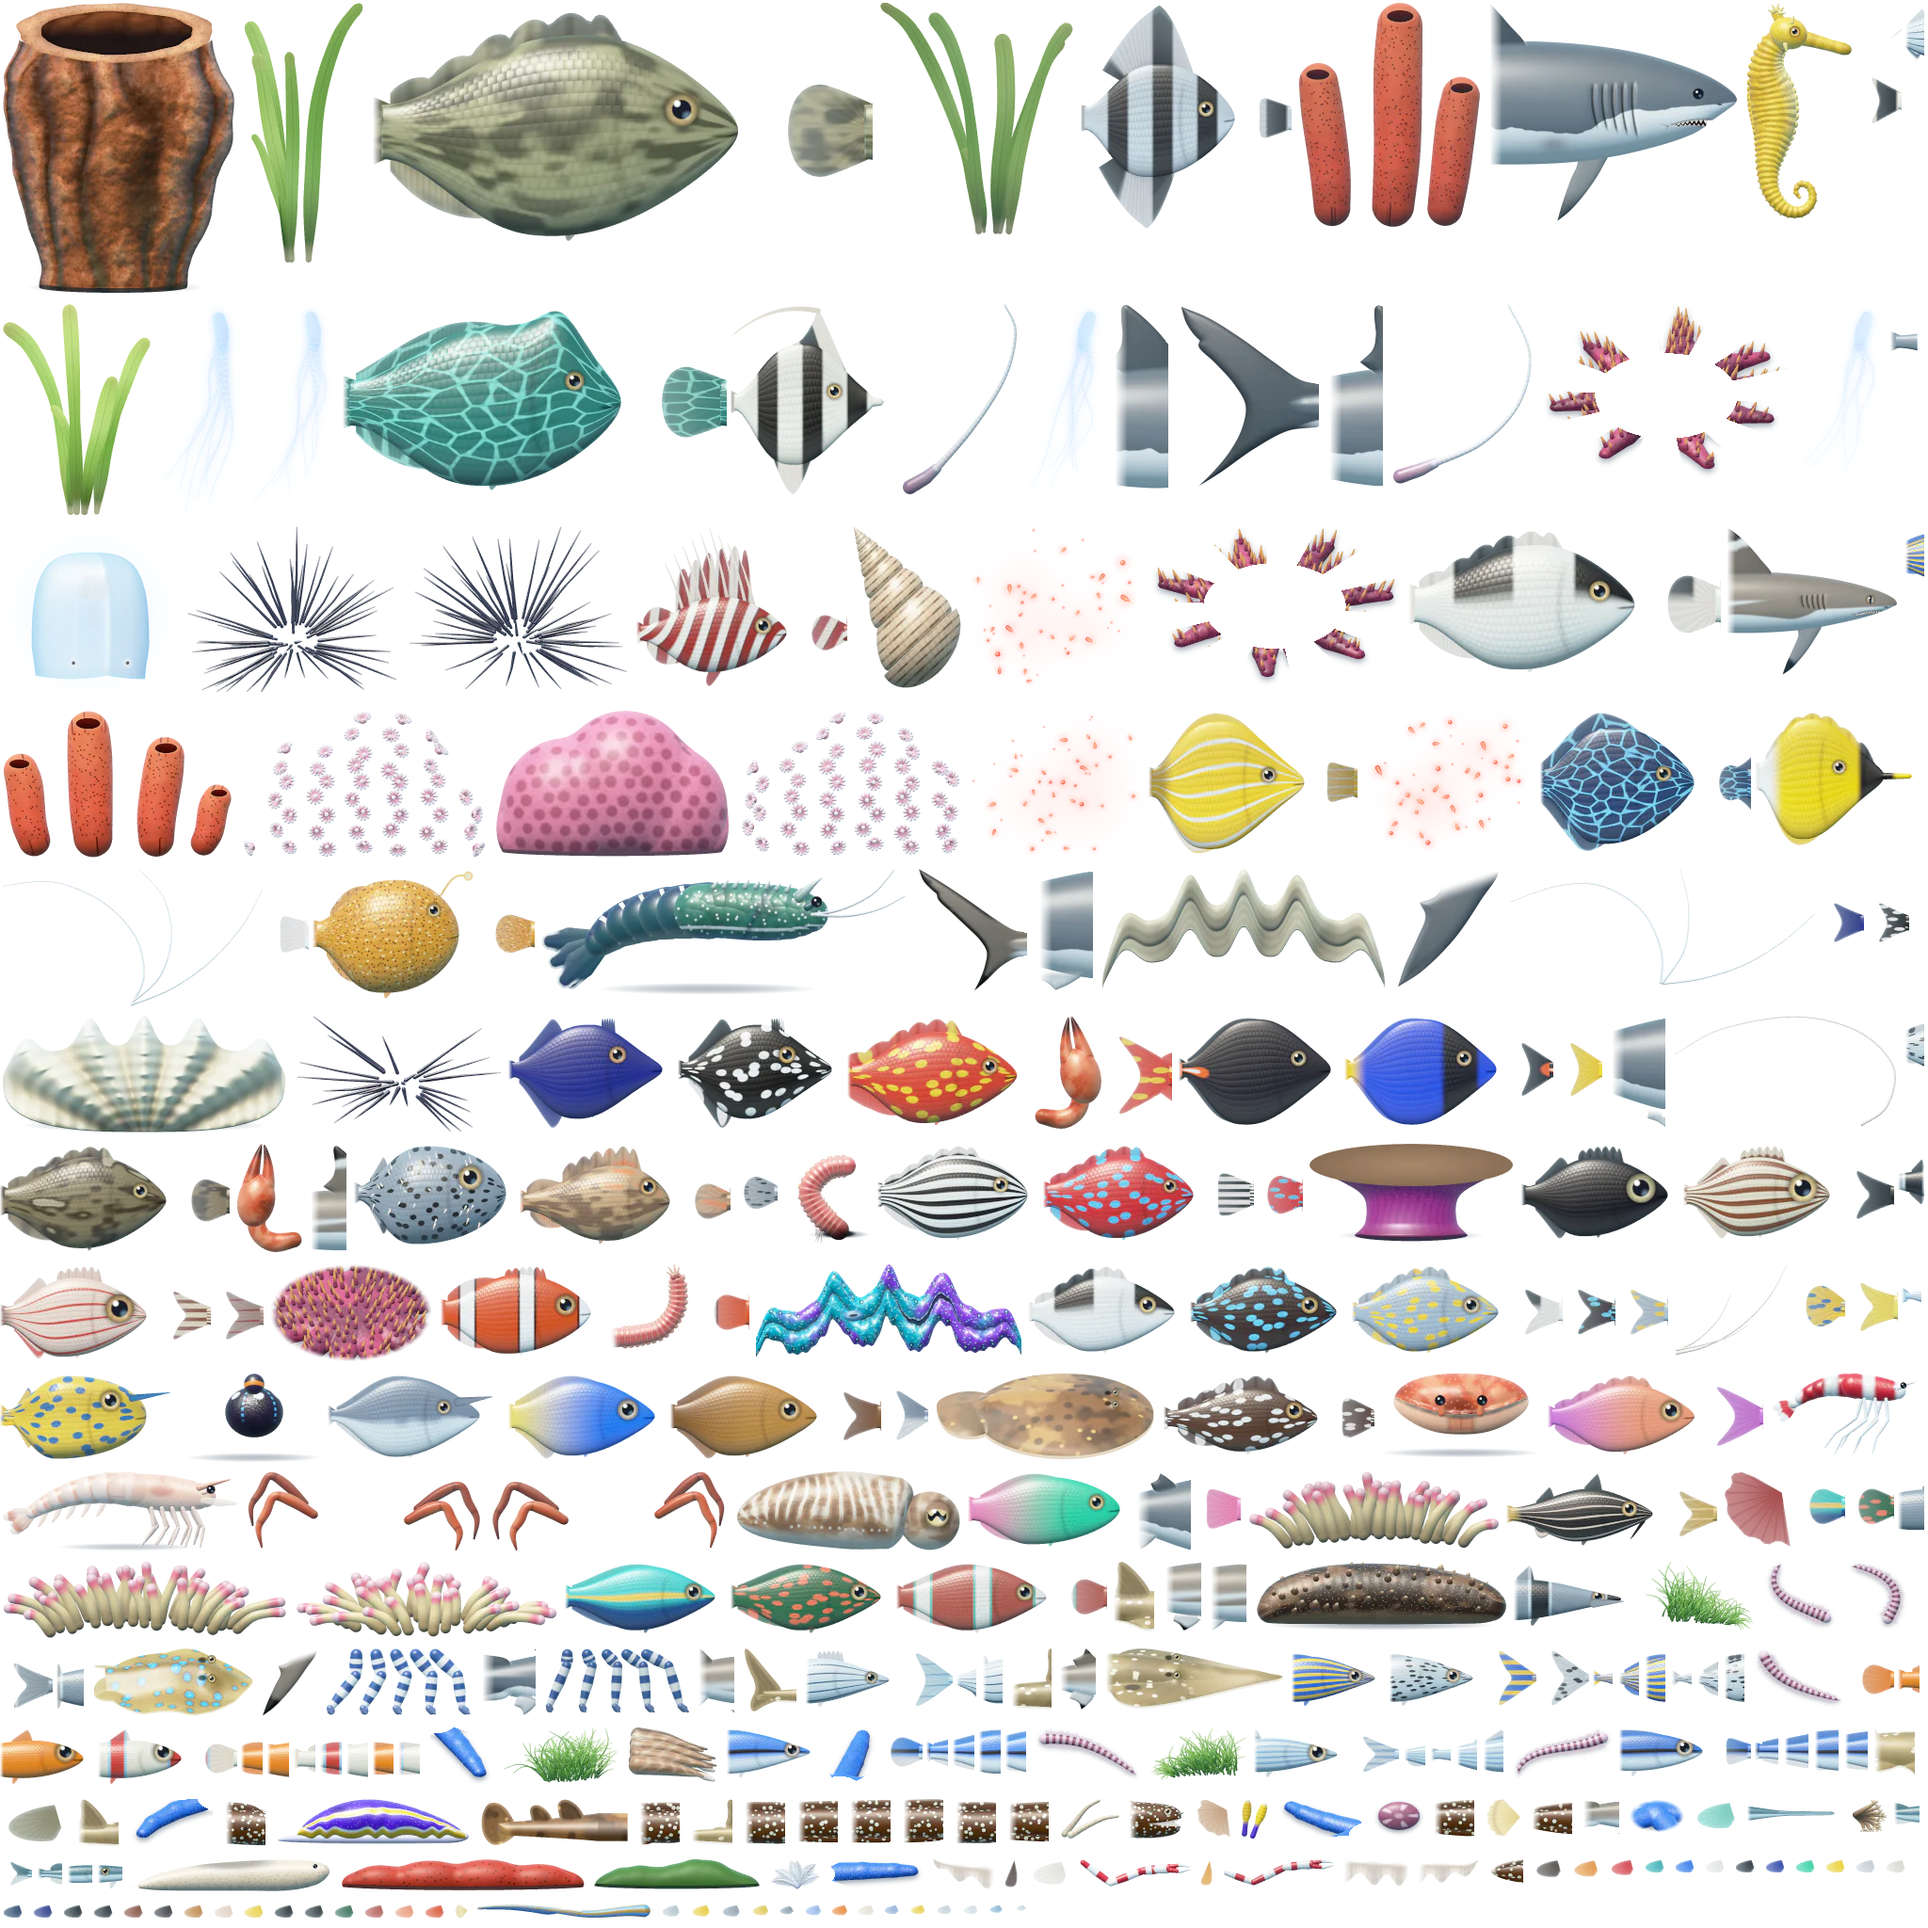
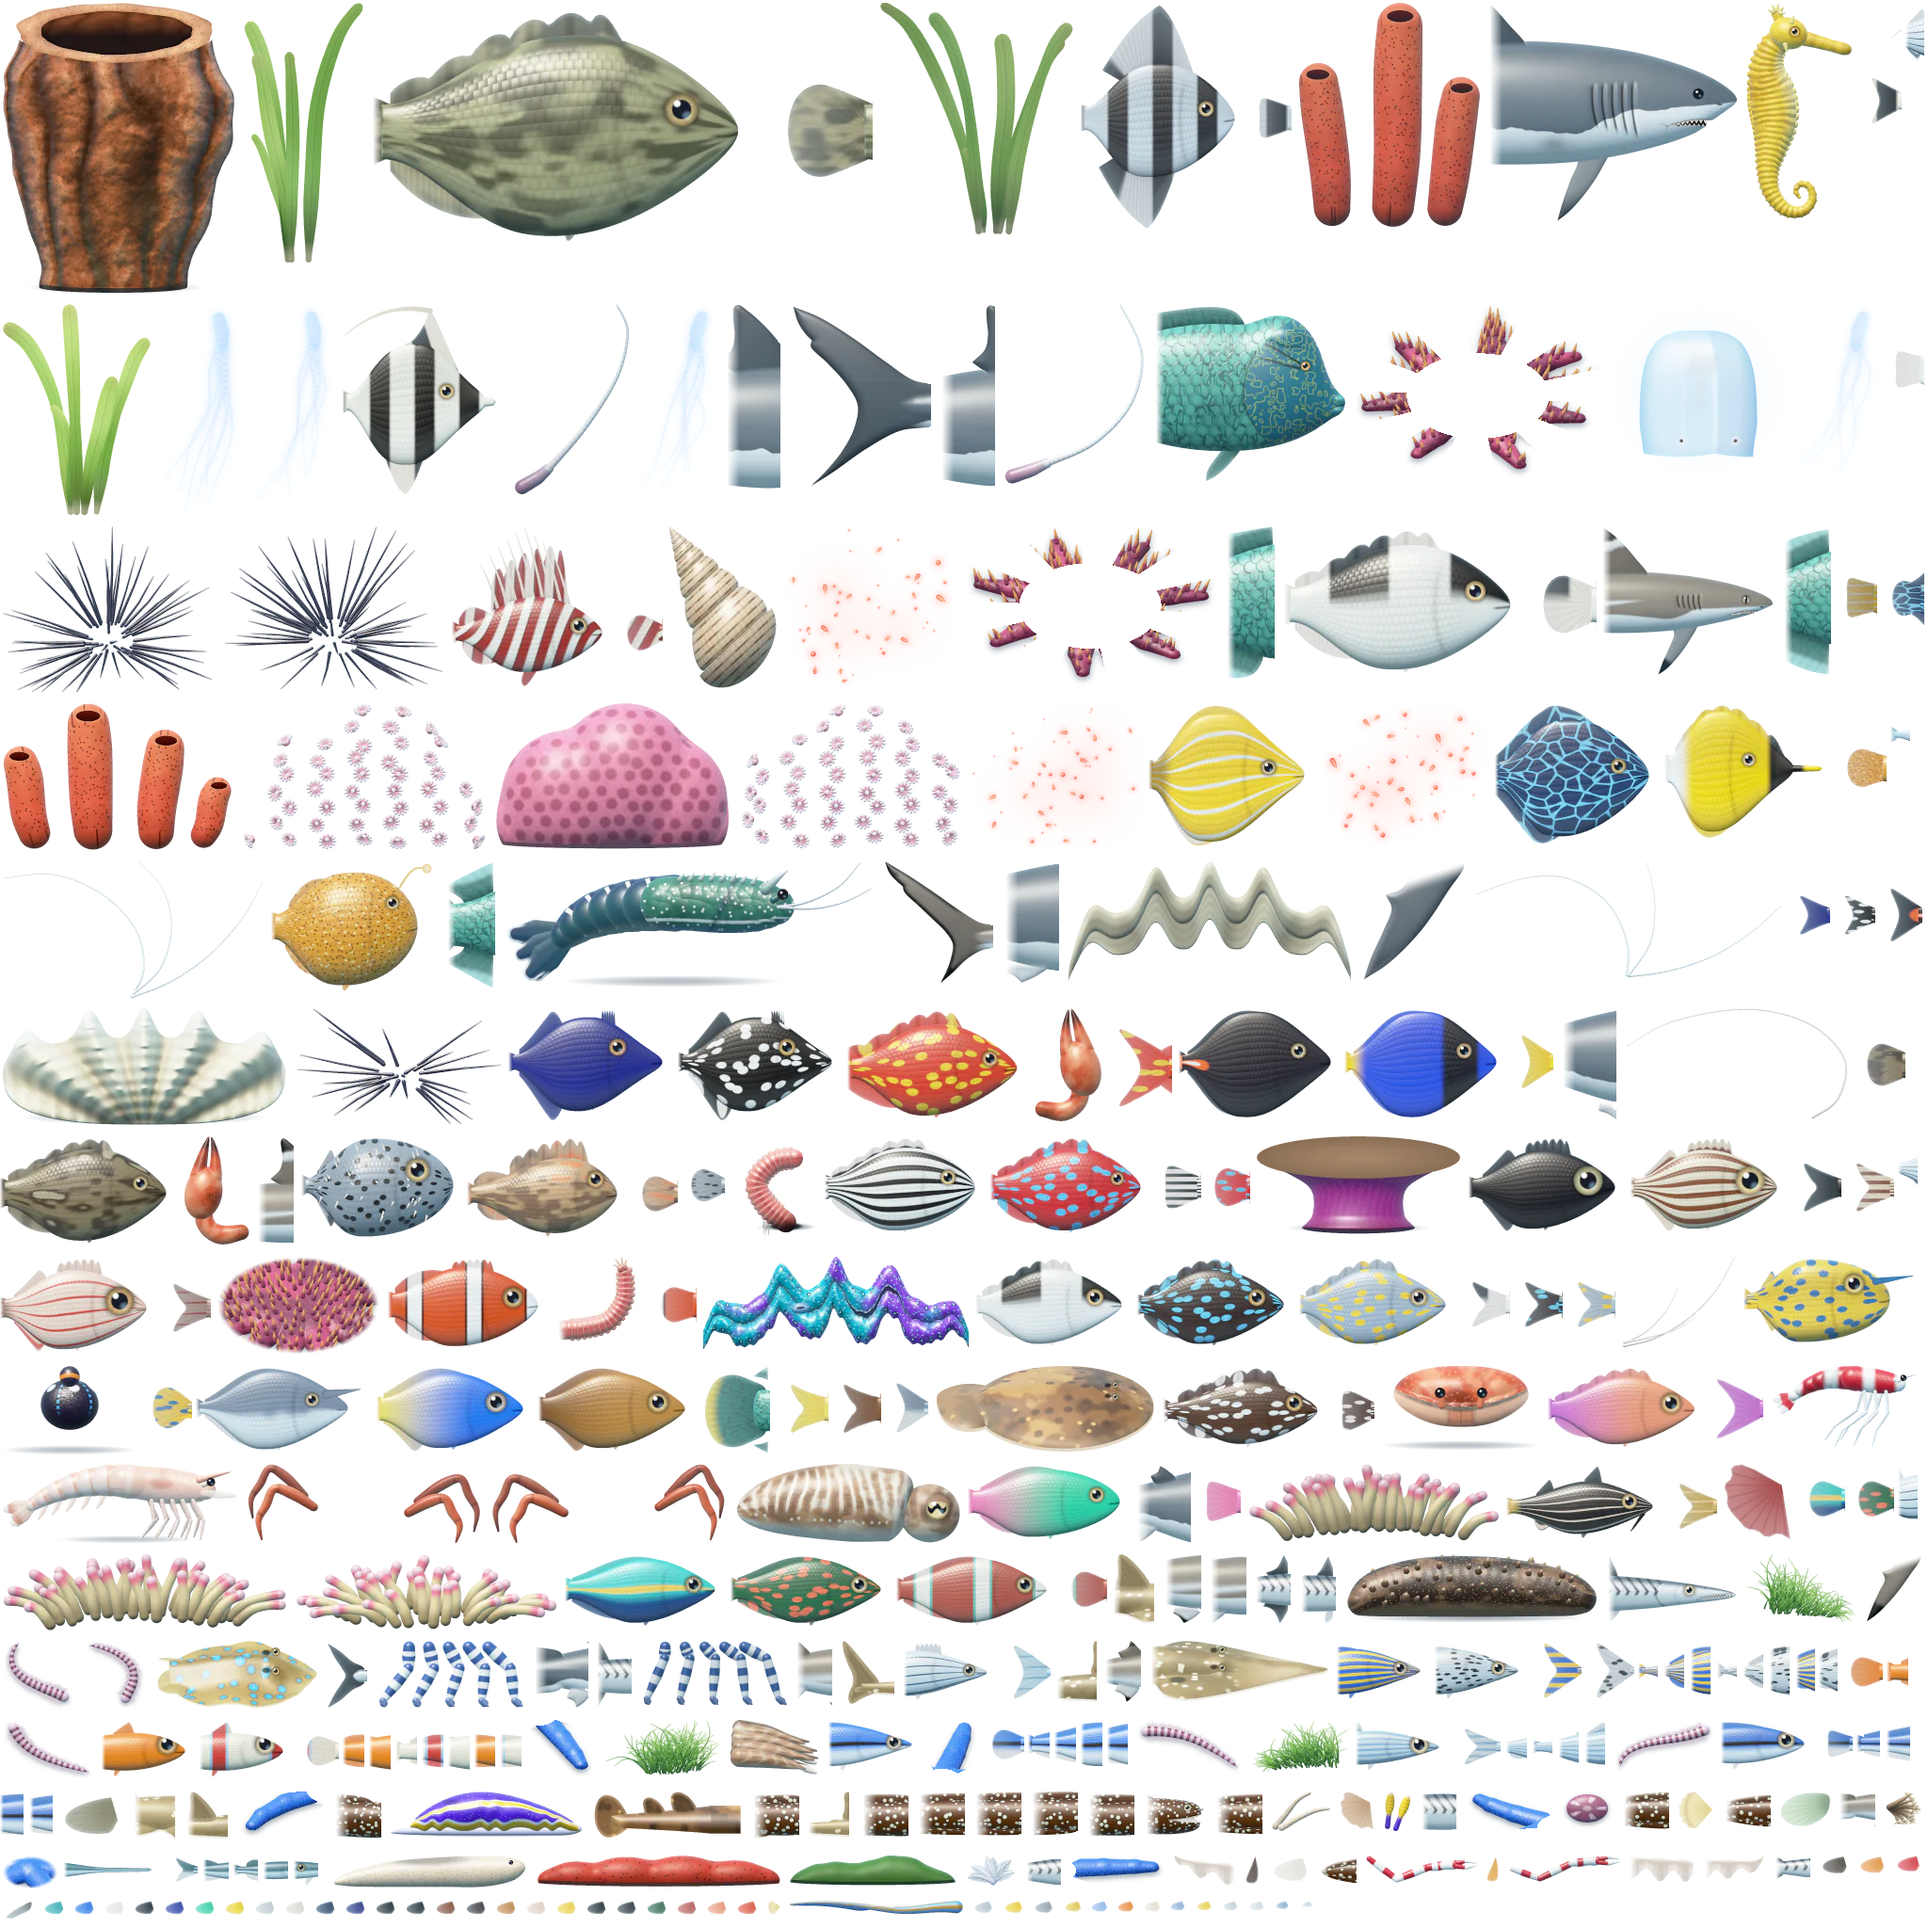
Hand-rendered barracuda and humphead wrasse; puffers swell into a ball; softer ink
Claude-Session: https://claude.ai/code/session_01VVY67R5iH75EttQJwB75uM

diff --git a/README.md b/README.md
@@ -38,7 +38,7 @@ npm install
 npm run package
 ```
 
-That writes `dist/reefbound.zip` (about 2.8 MB; the Roku store limit for a channel is 4 MB and
+That writes `dist/reefbound.zip` (about 2.9 MB; the Roku store limit for a channel is 4 MB and
 the build fails if it is exceeded). To put it on a Roku:
 
 1. Enable developer mode on the Roku: press Home three times, Up twice, then Right, Left, Right,
@@ -129,7 +129,7 @@ cannot do real-time lighting, so the lighting is done ahead of time:
   of day, which gives day, dusk, night and three depths from the same sprites. On top: a parallax
   backdrop, light shafts, the waterline and sky, drifting particles, a soft vignette.
 
-Budget: four WebP atlases, 1.5 MB on disk, about 41 MB as textures, plus half and quarter size
+Budget: three WebP atlases, 1.6 MB on disk, about 40 MB as textures, plus half and quarter size
 copies the channel makes at load time so that small sprites are drawn from a copy near their
 on-screen size. **Low detail** keeps the creature and scenery sheets at half resolution — a
 quarter of the memory — and trims decoration. *Auto* picks it on devices that report little
@@ -207,7 +207,9 @@ Things that can only be settled on hardware:
 - **Frame rate** on a low-end player (Roku Express class). The design target is 30 fps there and
   60 on faster players. The simulation is budgeted for it (see the architecture notes); drawing
   cost on a real GPU is unmeasured.
-- **Texture memory** at High detail (about 54 MB with the reduced copies). Low detail exists for
+- **Start-up time.** Loading decodes three 2048-pixel atlases, makes their reduced copies and
+  populates the first region; this was not timed on a device.
+- **Texture memory** at High detail (about 53 MB with the reduced copies). Low detail exists for
   this; confirm which devices Auto should put in it.
 - **Mirrored sprites, rotation and colour tinting.** These are documented behaviour of the 2D
   API and the channel probes them at start-up (`GfxProbe`). Without rotation it draws parts

diff --git a/docs/ART_PIPELINE.md b/docs/ART_PIPELINE.md
@@ -96,9 +96,9 @@ libraries, so a rebuild after a small change takes seconds.
 
 | | |
 |---|---|
-| Creature sheets | 2 pages, 77 sprites, about 300 parts |
+| Creature sheet | 1 page, 77 sprites, about 300 parts |
 | Kit sheet | 1 page, about 80 sprites |
 | Interface and effects sheet | 1 page, about 65 sprites |
-| On disk | about 1.5 MB of WebP |
-| As textures | about 41 MB (High detail), plus reduced copies |
+| On disk | about 1.6 MB of WebP |
+| As textures | about 40 MB (High detail), plus reduced copies |
 | Scene data | 17 to 28 KB per region |
